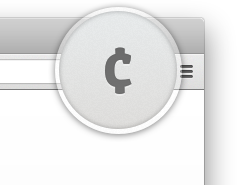
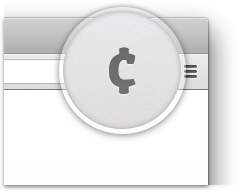
fill width background for sign up and getting started
updated some png's

diff --git a/app/assets/stylesheets/home/getting_started.css.scss b/app/assets/stylesheets/home/getting_started.css.scss
@@ -1,18 +1,21 @@
 #home_getting_started {
 
-  section.chrome {
-    .safari, .firefox{
-      display:none !important;
+  section {
+    margin-bottom: grid-width(1);
+    &.chrome {
+      .safari, .firefox{
+        display:none !important;
+      }
     }
-  }
-  section.safari {
-    .chrome, .firefox{
-      display:none !important;
+    &.safari {
+      .chrome, .firefox{
+        display:none !important;
+      }
     }
-  }
-  section.firefox {
-    .chrome, .safari{
-      display:none !important;
+    &.firefox {
+      .chrome, .safari{
+        display:none !important;
+      }
     }
   }
 
@@ -30,7 +33,6 @@
         }
       }
     }
-
     & > img {
       display:inline-block;
     }
@@ -44,6 +46,7 @@
 
   figure#sign_up_install_button {
     background-color: $offset_color;
+    @include full_width($offset_color);
     & > figcaption {}
     & > img {
       display:block;
@@ -62,7 +65,7 @@
           margin-bottom:0;
         }
         &.firefox {
-          margin-top:5em;
+          margin-top:3em;
           margin-bottom:0;
           & > img {
             display:inline-block;

diff --git a/app/assets/stylesheets/shared/profile.css.scss b/app/assets/stylesheets/shared/profile.css.scss
@@ -247,7 +247,6 @@
   }
 }
 
-
 table#tips {
   width:grid-width(12);
   & > thead > tr > th {

diff --git a/spec/requests/getting_started_spec.rb b/spec/requests/getting_started_spec.rb
@@ -1,6 +1,6 @@
 require File.dirname(__FILE__) + '/../spec_helper'
 
-describe "Getting started page", :slow do
+describe "a guest who wants to learn how to get started with copper",:focus, :slow do
   before(:each) do
     visit "/getting_started"
   end
@@ -9,10 +9,33 @@ describe "Getting started page", :slow do
     page.driver.error_messages.should be_empty
   end
 
-  it "should have a general description of how to get started", :focus do
-    page.should have_css('#any_url', visible:true)
-    page.should have_css('#start_tipping', visible:true)
-    page.should have_css('#chrome', visible:true)
-    
+  it "can view a general description of how to get started" do
+    page.should have_css('figure#any_url', visible:true)
+    page.should have_css('figure#sign_up_install_button', visible:true)
+    page.should have_css('figure#start_tipping', visible:true)
+  end
+
+  it "can see instructions for any browser" do
+    page.execute_script('$("#home_getting_started > section").addClass("chrome")')
+    page.should have_css('.safari', visible:false)
+    page.should have_css('.chrome', visible:true)
+    page.should have_css('.firefox', visible:false)
+    page.save_screenshot('tmp/screenshots/getting_started/chrome.png')
+  end
+
+  it "can see instructions for safari" do
+    page.execute_script('$("#home_getting_started > section").addClass("safari")')
+    page.should have_css('.safari', visible:true)
+    page.should have_css('.chrome', visible:false)
+    page.should have_css('.firefox', visible:false)
+    page.save_screenshot('tmp/screenshots/getting_started/safari.png')
+  end
+
+  it "can see instructions for firefox" do
+    page.execute_script('$("#home_getting_started > section").addClass("firefox")')
+    page.should have_css('.safari', visible:false)
+    page.should have_css('.chrome', visible:false)
+    page.should have_css('.firefox', visible:true)
+    page.save_screenshot('tmp/screenshots/getting_started/firefox.png')
   end
 end
